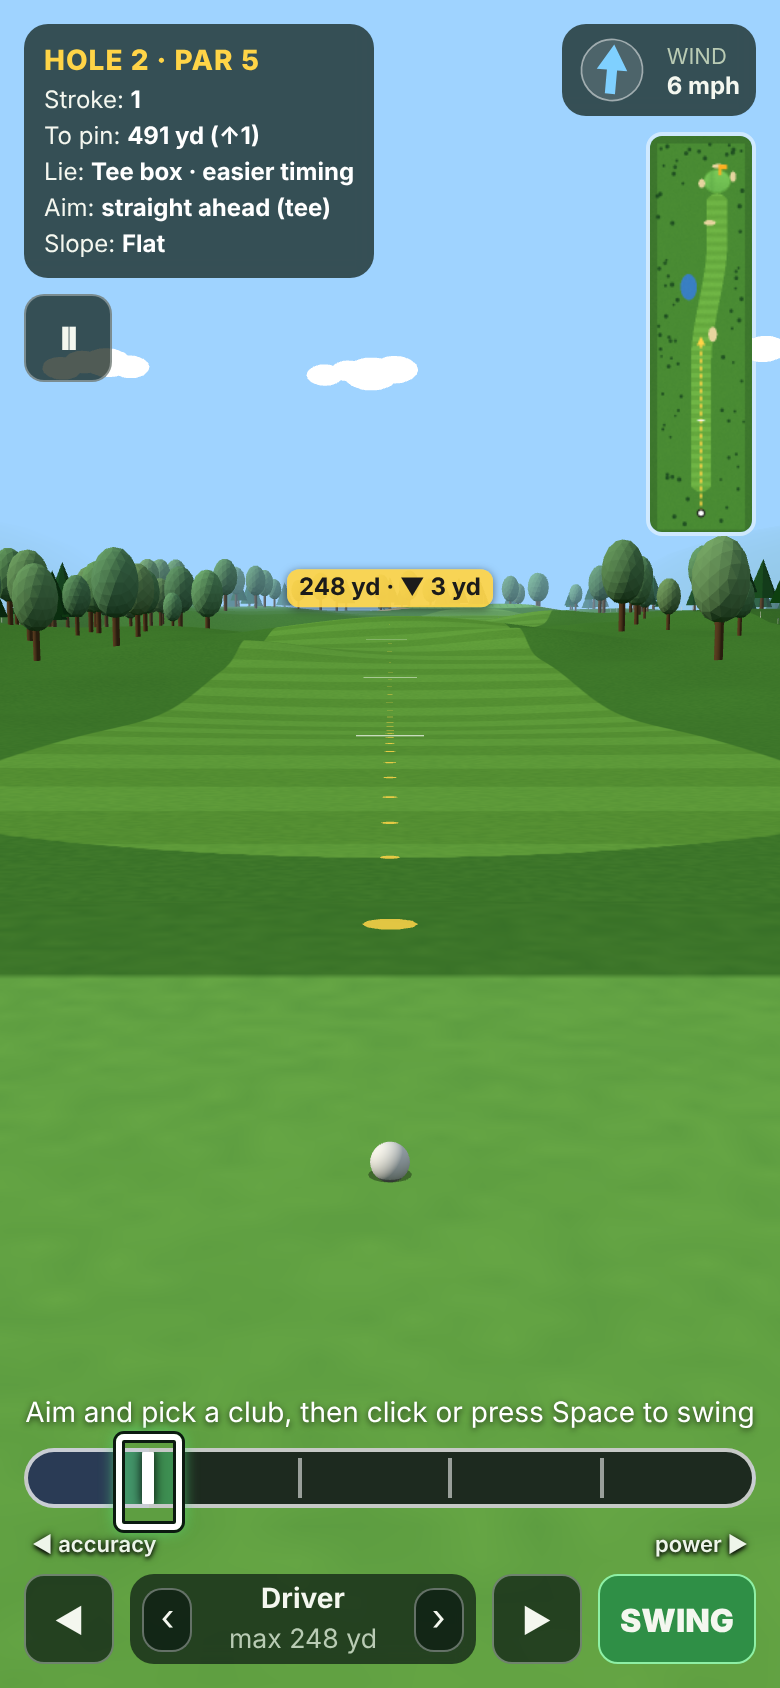
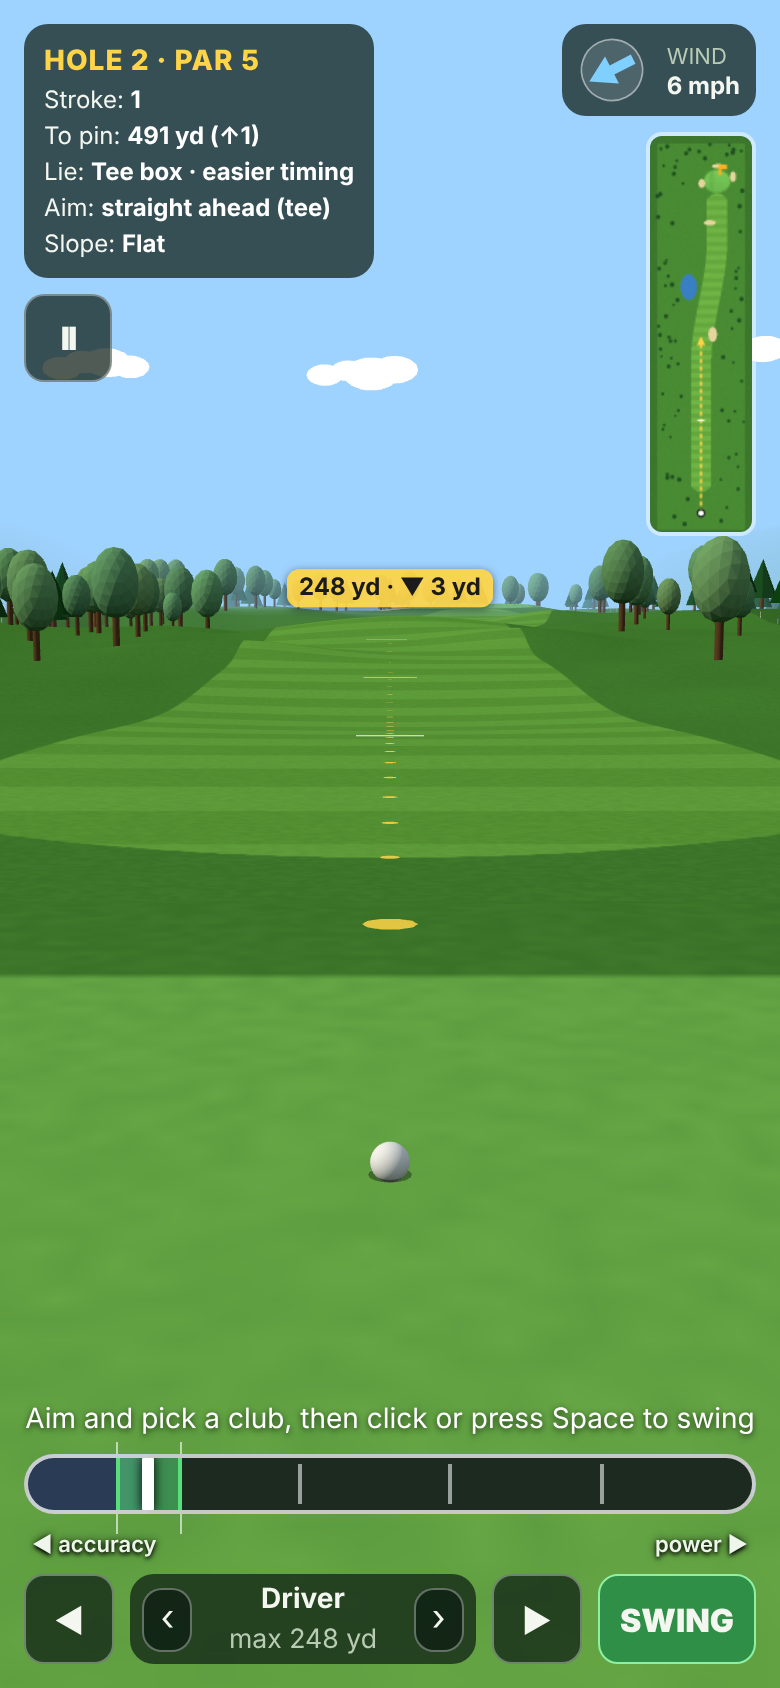
S22: subtle accuracy window edges (owner on PR #53)
The bold white frame hid the timing. Now two thin, semi-transparent edge
lines show only above and below the bar (they sit behind it), no glow,
no outline, so the moving marker stays the boldest thing on the bar.
Width, opacity and overhang in config.js HUD.accFrame. Screenshots
re-taken.

Claude-Session: https://claude.ai/code/session_01Rv6NgAADw2XvfsDiNgoB5v

Changed region(s): [[0.0308, 0.8318, 0.9846, 0.9242], [0.7692, 0.0308, 0.8, 0.0616]]

diff --git a/index.html b/index.html
@@ -64,8 +64,12 @@
   #aimLabel[hidden] { display: none; }
   /* S22 (owner on PR #53): the accuracy window as a high-contrast frame that sticks out above and below the bar */
   #meterWrap { position: relative; }
-  #sweetFrame { position: absolute; top: -7px; height: 48px; box-sizing: border-box; pointer-events: none;
-    border: 3px solid #fff; border-radius: 4px; box-shadow: 0 0 0 1.5px #0b1a10, inset 0 0 0 1.5px #0b1a10, 0 0 8px rgba(87,224,122,.9); }
+  /* owner on PR #53 ("way too bold"): two thin, semi-transparent edge lines that show only above and below
+     the bar. They sit behind the bar (z-index), so inside it the moving marker stays the boldest thing.
+     Thickness, opacity and overhang come from config.js HUD.accFrame (hud.js sets the variables). */
+  #sweetFrame { position: absolute; top: calc(-1 * var(--acc-over, 6px)); height: calc(34px + 2 * var(--acc-over, 6px)); box-sizing: border-box;
+    pointer-events: none; z-index: 0; border-left: var(--acc-w, 1.5px) solid rgba(255,255,255,var(--acc-op, .6)); border-right: var(--acc-w, 1.5px) solid rgba(255,255,255,var(--acc-op, .6)); }
+  #meterBar { z-index: 1; }
   #powerMark { position: absolute; top: 0; bottom: 0; width: 3px; background: #fff; display: none; }
   #marker { position: absolute; top: -2px; bottom: -2px; width: 6px; margin-left: -3px; background: #fff; border-radius: 3px; box-shadow: 0 0 6px #000; }
   /* S8: the power click was missed, so the next click is a mini shot */
@@ -77,7 +81,7 @@
     padding: 3px 8px; border-radius: 6px; text-align: center; pointer-events: none; box-shadow: 0 2px 8px rgba(0,0,0,.4); }
   #tuned[hidden] { display: none; }
   /* H1: a shadow like the hint line, so the labels stay readable over sand and bright grass */
-  #meterLabels { display: flex; justify-content: space-between; font-size: 11px; font-weight: 600; color: #eef5ea; padding: 11px 4px 0; /* S22: below the accuracy frame (it sticks out 7 px under the bar) */
+  #meterLabels { display: flex; justify-content: space-between; font-size: 11px; font-weight: 600; color: #eef5ea; padding: 8px 4px 0; /* S22: below the accuracy window's edge lines (they stick out under the bar) */
     text-shadow: 0 1px 2px #000, 0 0 4px rgba(0,0,0,.8); }
   #controls { display: flex; gap: 8px; align-items: stretch; }
   button { font: inherit; color: var(--text); background: var(--panel); border: 1px solid rgba(255,255,255,.35); border-radius: 10px; padding: 8px 12px; cursor: pointer; }

diff --git a/src/game/hud.js b/src/game/hud.js
@@ -96,6 +96,9 @@ export function fitMinimap() {
 export function createHud(play) {
   const { cup, terrain, surfaces, wind, bag } = play;
   let msgTimer = 0;
+  // S22 (owner on PR #53): the accuracy window's thin edge lines, from config
+  const rs = document.documentElement.style, af = HUD.accFrame;
+  rs.setProperty('--acc-w', `${af.widthPx}px`); rs.setProperty('--acc-op', `${af.opacity}`); rs.setProperty('--acc-over', `${af.overPx}px`);
   // S22: the power side of the bar in POWER_SECTIONS equal parts (lines at 25/50/75% for 4)
   const sections = $('sections');
   sections.replaceChildren(...Array.from({ length: POWER_SECTIONS - 1 }, (_, k) => {
@@ -108,7 +111,7 @@ export function createHud(play) {
   function drawLie({ maxPower, sweetScale }) {
     const h = sweetHalfWidth(sweetScale), sw = $('sweet').style;
     sw.left = `${meterPct(-h)}%`; sw.width = `${meterPct(h) - meterPct(-h)}%`;
-    // S22 (owner on PR #53): the same window, drawn as a frame that sticks out above and below the bar.
+    // S22 (owner on PR #53): the same window's edges, as thin lines that show above and below the bar.
     // It sits outside the bar (which clips), so it is placed inside the bar's 2 px border by hand.
     const fr = $('sweetFrame').style, a = meterPct(-h) / 100, b = meterPct(h) / 100;
     fr.left = `calc(2px + (100% - 4px) * ${a})`; fr.width = `calc((100% - 4px) * ${b - a})`;

diff --git a/src/core/config.js b/src/core/config.js
@@ -90,7 +90,7 @@ export const TIMING = { afterStop: 1300, afterPenalty: 1700, afterHoled: 1600, a
 export const POWER_SECTIONS = 4;
 // S22 (owner on PR #53): the minimap's aim line shows only these ticks (less busy than the 3D line)
 export const MINIMAP_TICKS = Object.freeze([0.5]);
-export const HUD = { slopeMinPct: 0.5, elevMinM: 0.5, pinTickMax: 1.02, pinFlagFlip: 0.85, atTeeM: 1, minimapFit: { gap: 8, minH: 40 } }; // pinFlagFlip: above this power the ⚑ flag sits left of its line (H1); atTeeM: "plays N yd" shows while the ball is this close to the tee; minimapFit (S22): px the minimap keeps clear of the bottom panel, and its smallest height
+export const HUD = { slopeMinPct: 0.5, elevMinM: 0.5, pinTickMax: 1.02, pinFlagFlip: 0.85, atTeeM: 1, minimapFit: { gap: 8, minH: 40 }, accFrame: { widthPx: 1.5, opacity: 0.6, overPx: 6 } }; // pinFlagFlip: above this power the ⚑ flag sits left of its line (H1); atTeeM: "plays N yd" shows while the ball is this close to the tee; minimapFit (S22): px the minimap keeps clear of the bottom panel, and its smallest height; accFrame (S22, owner on PR #53): the accuracy window's edge lines past the bar (px wide, opacity, px above and below)
 
 // --- Tunables: ?tune= overrides (X8), one entry each (Gate A A5) ---
 // The only names a tune link may change. Each entry is the whole definition: the default (`def`)

diff --git a/docs/DESIGN.md b/docs/DESIGN.md
@@ -50,7 +50,7 @@ Today ✅ one hole per page with an intro card and a result card. ❌ No menu, n
   - ✅ **every tee shot (par 3, 4 and 5): straight ahead along the tee's facing** (S21, owner playtest 2026-11-18: "the automatic aiming is still way too easy. On the tee box, the aiming should just be straight away instead of on the green. It's ok sometimes if the default aim ends not in the fairway, makes the player adjust it"). **The facing** (`play.teeFacing()`) is straight down the hole's −z axis (every tee box is drawn square to it), unless the hole's optional `teeFacing: { x, z }` names the point a turned tee box faces (the course designer sets it; PM on PR #53). The aim point is on that line at the selected club's **carry** × `TEE_AIM_CARRY` (1, tunable: `?tune=TEE_AIM_CARRY:0.9`), not a solved spot, so it may end in the rough, a bunker or under trees and the player adjusts. It moves with the club when the player changes club (the direction stays). `play.targetKind` is `'tee'`, the scorecard says "Aim: straight ahead (tee)". **The auto-pick on the tee** is the shortest club that reaches the landing area: a par 4/5's optional `aimTarget`, a par 3's green centre, else the cup (rule 3 below; the Driver on holes 2 and 3, the 7 Iron on hole 1). `aimTarget` no longer steers the aim. Before S21: par 4/5 tee shots aimed at `aimTarget` itself and par 3 tee shots at the green centre.
   - **everything else** (approaches, bunker shots): the **centre of the green** (`features.green`)
   - The ⚑ mark and the auto-pick use the distance to this point (`play.targetDist()`), also after the player turns the aim. The HUD "To pin" is unchanged; the aim line ends in the S22 marker. `play.target` / `play.targetKind` say where it aims; the scorecard shows it under the lie ("Aim: green centre / straight ahead (tee) / the cup / the cup (within 33 yd)", so a new player learns the rule) and the debug overlay too.
-- ✅ **S22 (owner, playtest 1): the ⚑ is for putts only.** Full shots and chips show no ⚑; the player reads distance from the **power bar's 4 equal sections** (25/50/75/100%, `POWER_SECTIONS`) and the **aim marker**: the aim line (3D and minimap) ends in a triangle where a straight, no-wind shot at 100% **lands** (carry, hills included; the same point as "max N yd"), with a short bar across the line where 25%, 50% and 75% land, and a label at the marker: the carry in yards and the ground there, "164 yd · Flat", "152 yd · ▲ 5 yd" (the landing spot is above the ball) or "▼ 3 yd" ("Flat" within `AIM_FLAT_RISE`, 0.5 m, tunable). Carry is exactly linear in power (`launchVelocity`: carry = power × club carry, measured on the real ball within 0.003 of 25/50/75% on flat ground and ±5% slopes), so a section of the bar is a quarter of the carry along the line. **On a capped lie** (rough 85%, sand 50%) the marker sits at the cap, where the ball can actually go, greyed (owner on PR #53: no "max N%" in the label, the bar and the lie line already show it); only the ticks below the cap are drawn, so a tick means the same power everywhere (PM on PR #53). Wind stays the player's read. A putt keeps the small ring and the ⚑. **Owner on PR #53:** the **minimap's** aim line shows only the 50% tick (`MINIMAP_TICKS`) and the end triangle (the 3D line keeps all three ticks); the **minimap is 1.2× bigger** (`MINIMAP_SCALE`, +44% area, `?tune=`), and `hud.js` `fitMinimap()` shrinks it (same shape) only as far as needed to end above the bottom panel (meter and controls), or lets a narrow one run down beside the panel on a wide landscape screen (replaces the fixed CSS cap of 100vh − 240 px). ⏩ Skip may sit over the minimap's corner while the ball moves (PM on PR #53: it only shows then). The "◀ accuracy / power ▶" labels sit below the accuracy frame. **The accuracy window** (the third-click target) is also drawn as a white frame with a dark outline that sticks out 7 px above and below the bar, so the target shows at a glance. `play.aimMarks()` / `aimMarkLabel()` (core) give the marker, ticks and label. The yellow ring of full shots is replaced by the marker.
+- ✅ **S22 (owner, playtest 1): the ⚑ is for putts only.** Full shots and chips show no ⚑; the player reads distance from the **power bar's 4 equal sections** (25/50/75/100%, `POWER_SECTIONS`) and the **aim marker**: the aim line (3D and minimap) ends in a triangle where a straight, no-wind shot at 100% **lands** (carry, hills included; the same point as "max N yd"), with a short bar across the line where 25%, 50% and 75% land, and a label at the marker: the carry in yards and the ground there, "164 yd · Flat", "152 yd · ▲ 5 yd" (the landing spot is above the ball) or "▼ 3 yd" ("Flat" within `AIM_FLAT_RISE`, 0.5 m, tunable). Carry is exactly linear in power (`launchVelocity`: carry = power × club carry, measured on the real ball within 0.003 of 25/50/75% on flat ground and ±5% slopes), so a section of the bar is a quarter of the carry along the line. **On a capped lie** (rough 85%, sand 50%) the marker sits at the cap, where the ball can actually go, greyed (owner on PR #53: no "max N%" in the label, the bar and the lie line already show it); only the ticks below the cap are drawn, so a tick means the same power everywhere (PM on PR #53). Wind stays the player's read. A putt keeps the small ring and the ⚑. **Owner on PR #53:** the **minimap's** aim line shows only the 50% tick (`MINIMAP_TICKS`) and the end triangle (the 3D line keeps all three ticks); the **minimap is 1.2× bigger** (`MINIMAP_SCALE`, +44% area, `?tune=`), and `hud.js` `fitMinimap()` shrinks it (same shape) only as far as needed to end above the bottom panel (meter and controls), or lets a narrow one run down beside the panel on a wide landscape screen (replaces the fixed CSS cap of 100vh − 240 px). ⏩ Skip may sit over the minimap's corner while the ball moves (PM on PR #53: it only shows then). The "◀ accuracy / power ▶" labels sit below the accuracy frame. **The accuracy window** (the third-click target) also has two thin, semi-transparent edge lines that show 6 px above and below the bar, so the window is easy to find without competing with the moving marker (owner on PR #53: a bold white frame was "way too bold" and hid the timing). They sit behind the bar, so inside it the marker stays the highest-contrast thing. Thickness, opacity and overhang: `HUD.accFrame` in config.js. `play.aimMarks()` / `aimMarkLabel()` (core) give the marker, ticks and label. The yellow ring of full shots is replaced by the marker.
 - The **⚑ mark** (since S22 putts only; the core value `play.pinPower()` is still kept for every shot: validateHole and tests use it) shows the power needed to reach the default aim point (S18; the pin for a putt), adjusted for elevation (S12). ✅ Since S15 it is the power at which the ball **comes to rest** there: core plays the whole shot (flight, bounces, roll, slopes, cup) on a second, invisible ball with no wind and a straight hit (`play.restPoint()`), so a long club's run-out is included (before, every club landed 95% of the way and a 3 Wood finished 7–11 m past the pin, QA G2). With no wind and a straight shot, every club at 100–180 m finishes within 2 m of the target on flat ground and on ±8% slopes (tests/pin-mark.test.js; on a straight test hole it usually drops). Where no power finishes there, because a short ball lands on a bank and rolls back while a longer one carries onto the top and runs on (below hole 2's raised green), the ⚑ takes the power with the closest finish. ✅ **Chips stop short** (PM on PR #31, "harder is much better"): within `CHIP_AIM_RANGE` of the cup, with a club (not the putter), the ⚑ marks a finish `CHIP_FLAG_SHORT` (1.5 m, tunable) **short** of the cup, so a perfect ⚑ chip leaves a short putt and going for the hole means adding power on purpose. Compare with `?tune=CHIP_FLAG_SHORT:0` (finish at the cup) or `:3`. Above the lie's cap it sits in the grayed-out part (out of reach with this club). Near the right end of the meter the flag is drawn on the left of its line so it isn't cut off (H1). Rolling back off a tier is included since S15 only as far as the ⚑ picks the closest finish; reading a ridge stays the player's job (PM on PR #15).
 - The club is picked automatically each shot (see "Club auto-pick") and the player can change to any club in the bag.
 

diff --git a/docs/TASKS.md b/docs/TASKS.md
@@ -138,7 +138,7 @@ Goal: trees and rocks that matter. See DESIGN §4 "Obstacles" and the "Rock" sur
 
 ## Playtest 1 gameplay pass (owner, 2026-11-18)
 - [x] **S21** (owner: "The automatic aiming is still way too easy. On the tee box, the aiming should just be straight away instead of on the green. It's ok sometimes if the default aim ends not in the fairway, makes the player adjust it.") Every tee shot (par 3, 4, 5) aims straight ahead along the tee's facing at the selected club's normal distance; the ⚑ and the auto-pick follow. `validateHole`: the default tee shot may end off the fairway, never in a penalty. Tests; v2 re-recorded *(Dev, Nov 18, `dev/S21-tee-aim`, PR #53: the tee faces straight down −z unless the hole sets `teeFacing: { x, z }` (PM on PR #53); the aim point is the club's carry × `TEE_AIM_CARRY` (1, `?tune=`) on that line and moves with the club; the auto-pick reaches `aimTarget` (now optional) or a par 3's green; `targetKind` 'tee', "Aim: straight ahead (tee)". validateHole replaces the K8 "no warning on the default tee shot" rule with "never ends in water/OB" for the shot that finishes at the aim point (a full swing may run long: mtn-06). After #50: mtn-07 got `teeFacing` (validateHole asked); mtn-03/06 tests adapted. tests/default-aim.test.js)*
-- [x] **S22** (owner, from his example HUD) **Power bar:** no ⚑ on full shots or chips (kept for putts); the power bar in 4 equal sections; the aim line (3D and minimap) ends in a marker where a 100% straight no-wind shot lands, with ticks at 25/50/75%; a label at the marker with the full-power distance and the ground there (Flat / ▲ n yd / ▼ n yd). First check that power → carry is linear *(Dev, Nov 18, PR #53: carry is exactly linear (within 0.003, flat and ±5%), so no curve change. `play.aimMarks()` + `aimMarkLabel()` in core; on a capped lie the marker is at the cap, grey, only ticks below the cap (PM; owner: no "max N%" in the label). `POWER_SECTIONS` 4, `AIM_FLAT_RISE` 0.5 m (`?tune=`). Intro texts of holes 1–2 and one scenario no longer mention the ⚑ / yellow ring. Owner on PR #53: minimap shows only the 50% tick, minimap ×1.2 (`MINIMAP_SCALE`, fitted clear of the panel and Skip), accuracy window framed past the bar's edges. tests/power-bar.test.js)*
+- [x] **S22** (owner, from his example HUD) **Power bar:** no ⚑ on full shots or chips (kept for putts); the power bar in 4 equal sections; the aim line (3D and minimap) ends in a marker where a 100% straight no-wind shot lands, with ticks at 25/50/75%; a label at the marker with the full-power distance and the ground there (Flat / ▲ n yd / ▼ n yd). First check that power → carry is linear *(Dev, Nov 18, PR #53: carry is exactly linear (within 0.003, flat and ±5%), so no curve change. `play.aimMarks()` + `aimMarkLabel()` in core; on a capped lie the marker is at the cap, grey, only ticks below the cap (PM; owner: no "max N%" in the label). `POWER_SECTIONS` 4, `AIM_FLAT_RISE` 0.5 m (`?tune=`). Intro texts of holes 1–2 and one scenario no longer mention the ⚑ / yellow ring. Owner on PR #53: minimap shows only the 50% tick, minimap ×1.2 (`MINIMAP_SCALE`, fitted clear of the panel and Skip), accuracy window's edges marked with thin lines past the bar (`HUD.accFrame`; a bold frame was too much, owner). tests/power-bar.test.js)*
 
 ## Phase 5: Rain *(moved after Gate B, owner 2026-11-17)*
 - [ ] **W1** `weather` field on holes. A hole set can also override it (same holes, rainy day)
